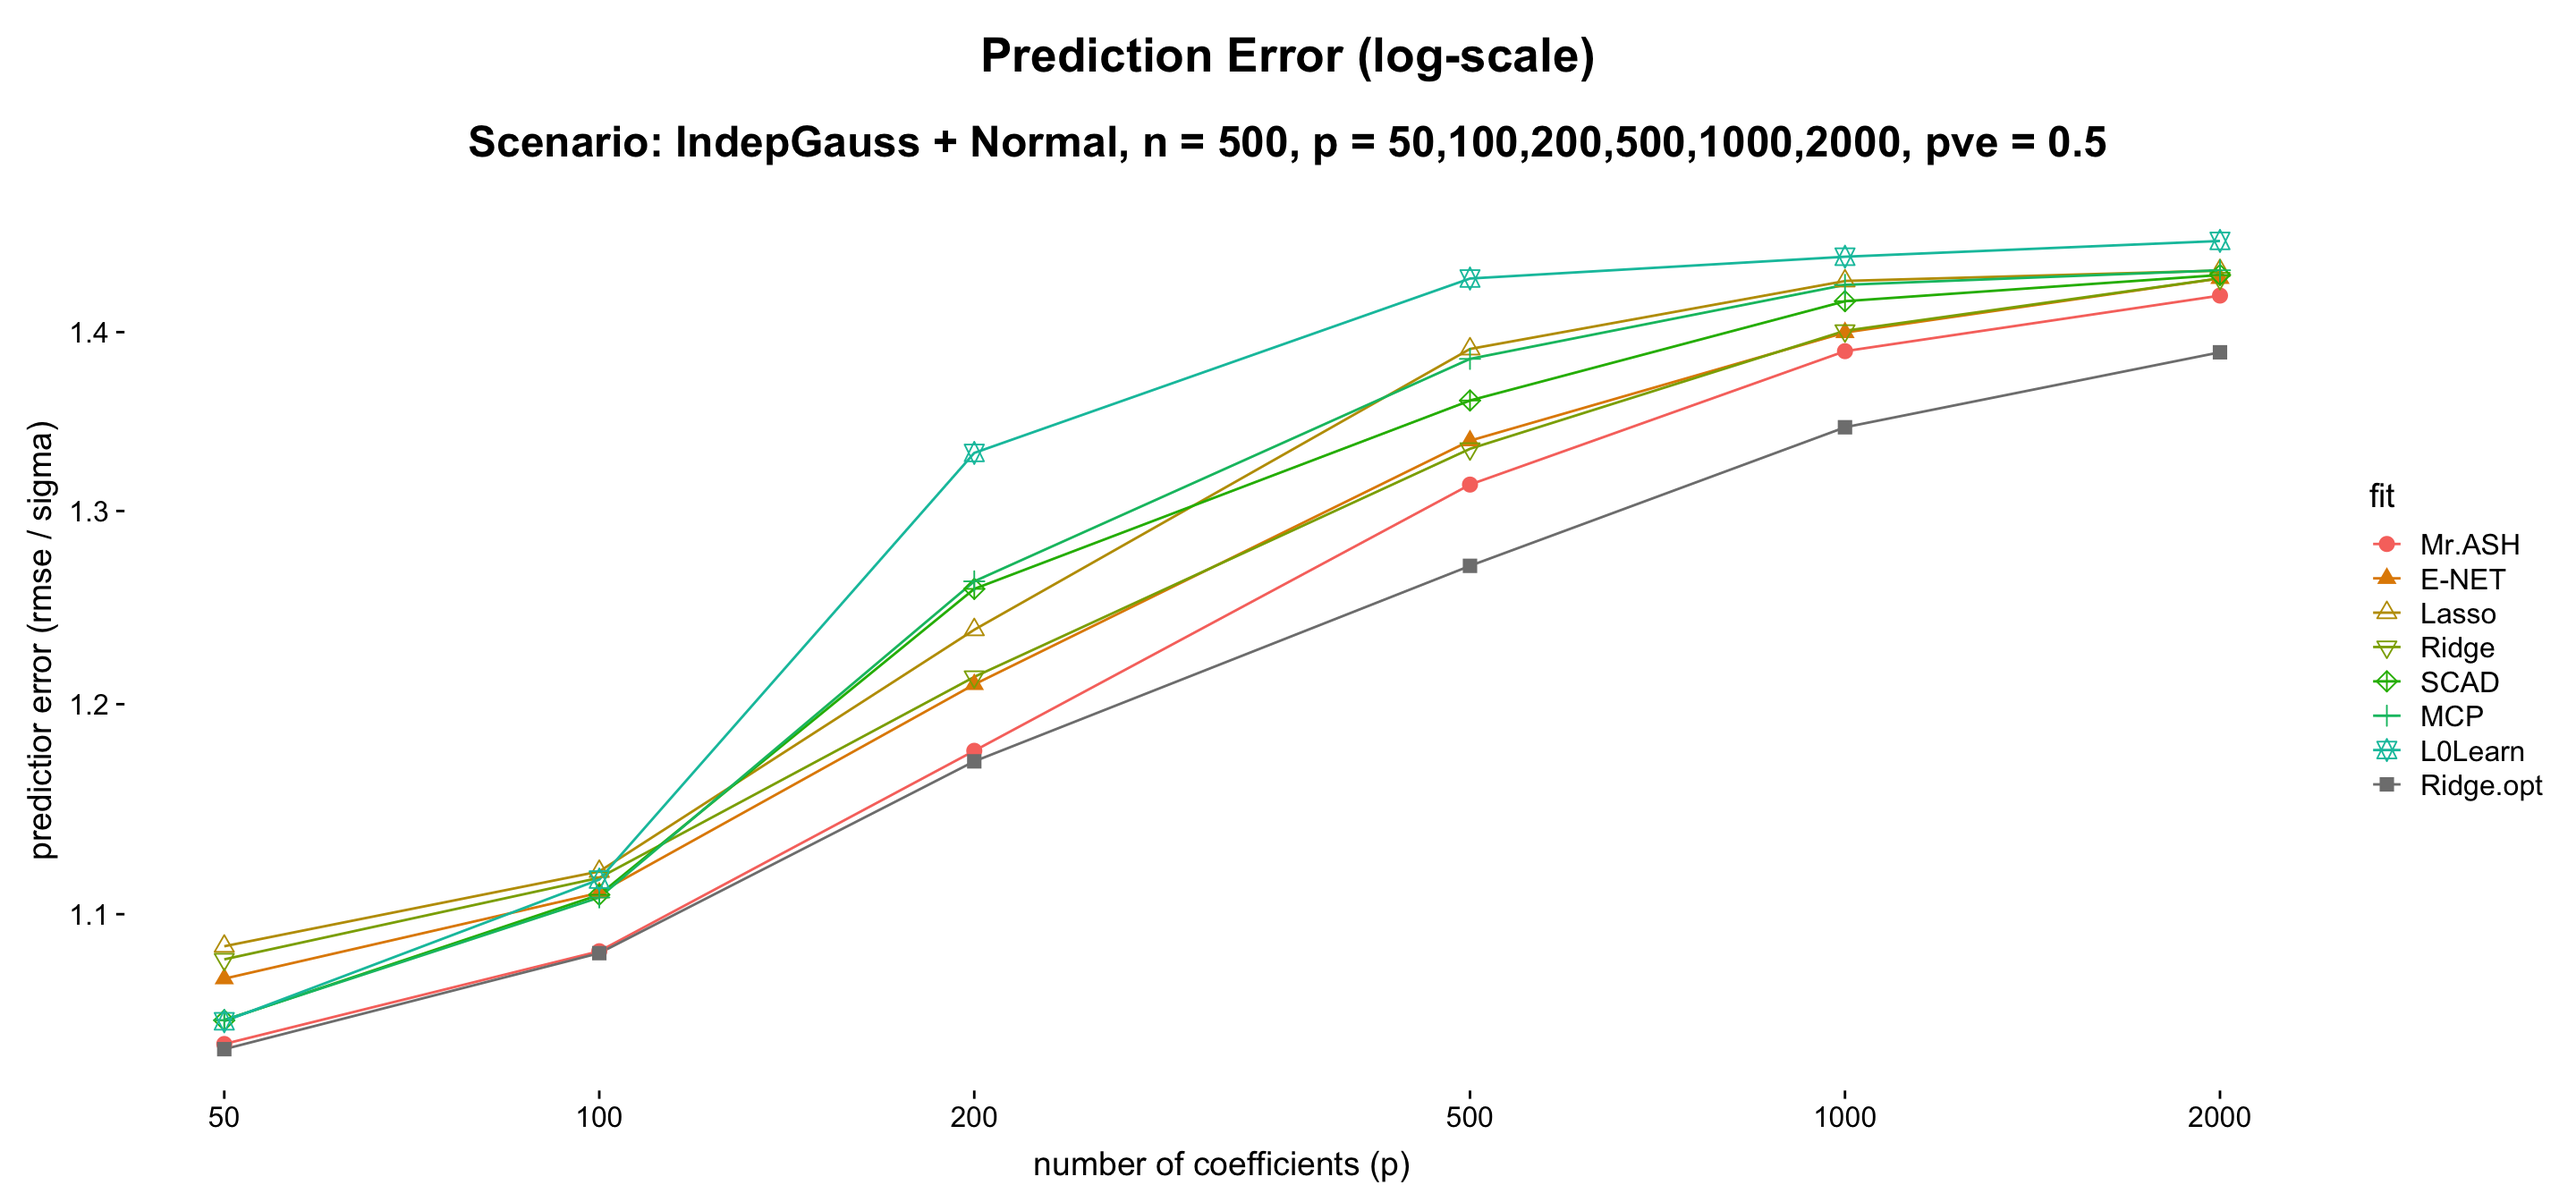
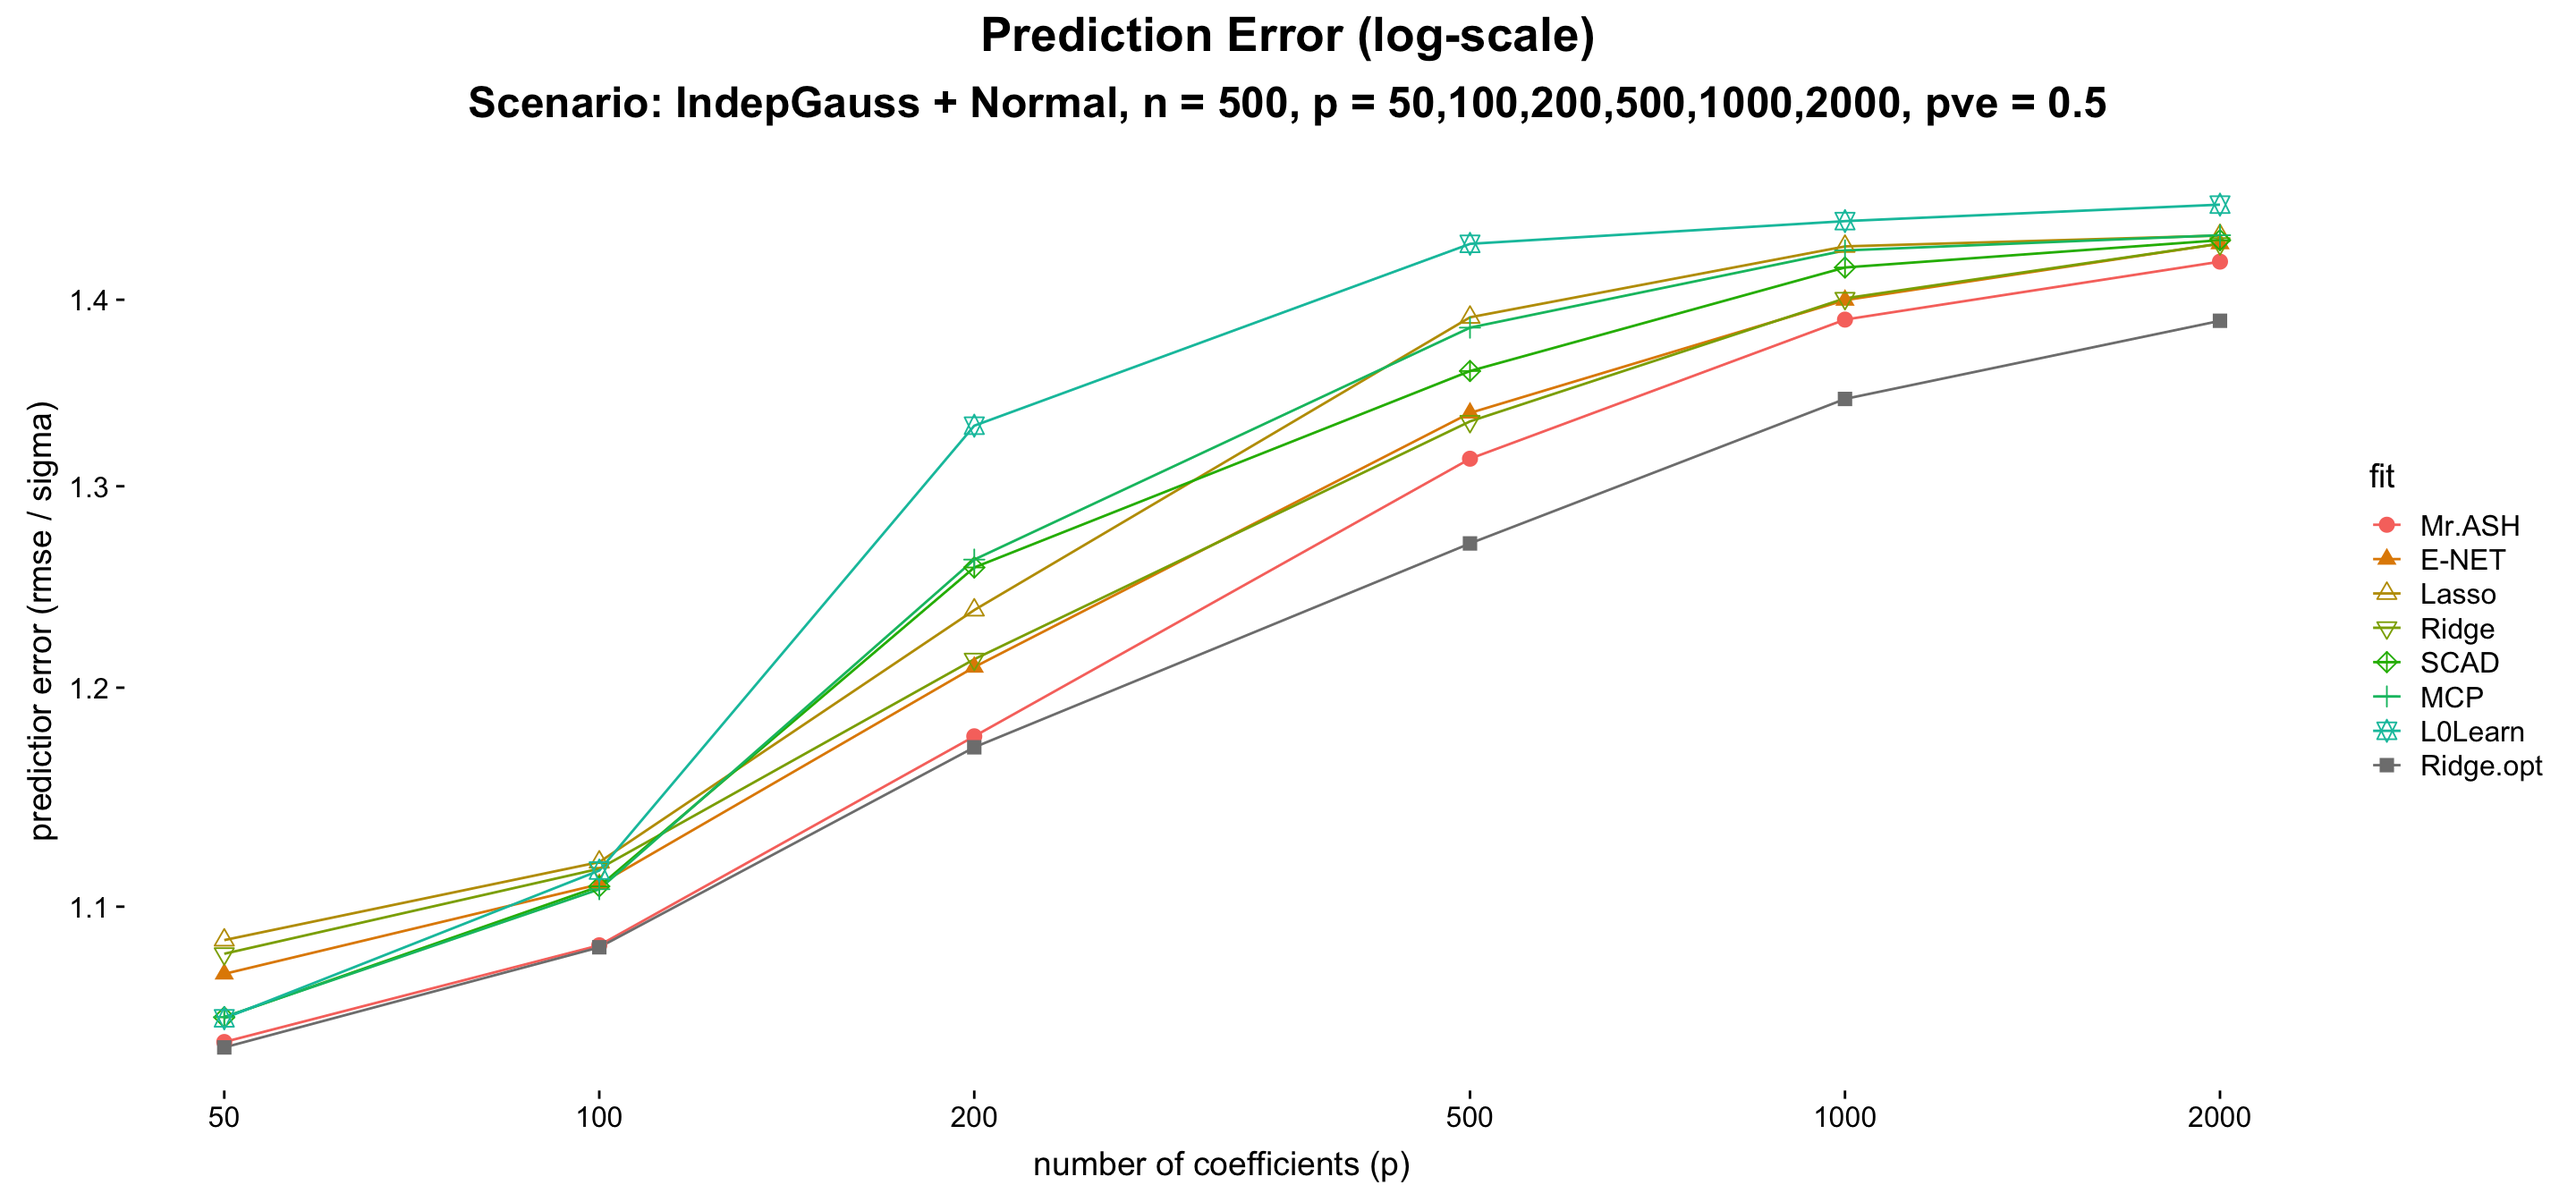
Build site.

diff --git a/docs/Plots_for_paper.html b/docs/Plots_for_paper.html
@@ -527,10 +527,10 @@ This reproducible <a href="http://rmarkdown.rstudio.com">R Markdown</a> analysis
 <div class="panel panel-default">
 <div class="panel-heading">
 <p class="panel-title">
-<a data-toggle="collapse" data-parent="#workflowr-checks" href="#strongRepositoryversionstrongahrefhttpsgithubcomstephenslabmrashworkflowtree6e3d84937a8ec5ed7324115b7e1929ee2daac120targetblank6e3d849a"> <span class="glyphicon glyphicon-ok text-success" aria-hidden="true"></span> <strong>Repository version:</strong> <a href="https://github.com/stephenslab/mr-ash-workflow/tree/6e3d84937a8ec5ed7324115b7e1929ee2daac120" target="_blank">6e3d849</a> </a>
+<a data-toggle="collapse" data-parent="#workflowr-checks" href="#strongRepositoryversionstrongahrefhttpsgithubcomstephenslabmrashworkflowtree9352593229da3a938de387ee5803451830be5815targetblank9352593a"> <span class="glyphicon glyphicon-ok text-success" aria-hidden="true"></span> <strong>Repository version:</strong> <a href="https://github.com/stephenslab/mr-ash-workflow/tree/9352593229da3a938de387ee5803451830be5815" target="_blank">9352593</a> </a>
 </p>
 </div>
[2 lines of base64/hex data omitted]
 <div class="panel-body">
 <p>
 Great! You are using Git for version control. Tracking code development and connecting the code version to the results is critical for reproducibility. The version displayed above was the version of the Git repository at the time these results were generated. <br><br> Note that you need to be careful to ensure that all relevant files for the analysis have been committed to Git prior to generating the results (you can use <code>wflow_publish</code> or <code>wflow_git_commit</code>). workflowr only checks the R Markdown file, but you know if there are other scripts or data files that it depends on. Below is the status of the Git repository when the results were generated:
@@ -543,6 +543,7 @@ Ignored files:
     Ignored:    ETA_1_parBayesB.dat
     Ignored:    analysis/ETA_1_lambda.dat
     Ignored:    analysis/ETA_1_parBayesB.dat
+    Ignored:    analysis/figure/
     Ignored:    analysis/mu.dat
     Ignored:    analysis/varE.dat
     Ignored:    mu.dat
@@ -554,8 +555,7 @@ Untracked files:
     Untracked:  docs/figure/.DS_Store
 
 Unstaged changes:
-    Modified:   analysis/Result1_Ridge.Rmd
-    Modified:   code/sim_wrapper.R
+    Modified:   analysis/Result2_Nonconvex.Rmd
 
 </code></pre>
 <p>
@@ -594,6 +594,40 @@ Message
 </tr>
 </thead>
 <tbody>
+<tr>
+<td>
+Rmd
+</td>
+<td>
+<a href="https://github.com/stephenslab/mr-ash-workflow/blob/9352593229da3a938de387ee5803451830be5815/analysis/Plots_for_paper.Rmd" target="_blank">9352593</a>
+</td>
+<td>
+Youngseok Kim
+</td>
+<td>
+2019-10-31
+</td>
+<td>
+wflow_publish(“analysis/Plots_for_paper.Rmd”)
+</td>
+</tr>
+<tr>
+<td>
+html
+</td>
+<td>
+<a href="https://rawcdn.githack.com/stephenslab/mr-ash-workflow/d901e446f6a9d32037dd951c3a340dac1de7799c/docs/Plots_for_paper.html" target="_blank">d901e44</a>
+</td>
+<td>
+Youngseok Kim
+</td>
+<td>
+2019-10-31
+</td>
+<td>
+Build site.
+</td>
+</tr>
 <tr>
 <td>
 Rmd
@@ -993,6 +1027,17 @@ Date
 <tbody>
 <tr>
 <td>
+<a href="https://github.com/stephenslab/mr-ash-workflow/blob/d901e446f6a9d32037dd951c3a340dac1de7799c/docs/figure/Plots_for_paper.Rmd/fig1-1.png" target="_blank">d901e44</a>
+</td>
+<td>
+Youngseok Kim
+</td>
+<td>
+2019-10-31
+</td>
+</tr>
+<tr>
+<td>
 <a href="https://github.com/stephenslab/mr-ash-workflow/blob/66726909d9d89ed7935e64082a60c8773ad03cab/docs/figure/Plots_for_paper.Rmd/fig1-1.png" target="_blank">6672690</a>
 </td>
 <td>
@@ -1184,7 +1229,7 @@ p1 = ggplot(sdat1) + geom_line(aes(x = p, y = pred, color = fit)) +
 fig_main  = p1
 title     = ggdraw() + draw_label(&quot;Prediction Error (log-scale)&quot;, fontface = &#39;bold&#39;, size = 20) 
 subtitle  = ggdraw() + draw_label(&quot;Scenario: IndepGauss + Normal, n = 500, p = 50,100,200,500,1000,2000, pve = 0.5&quot;, fontface  = &#39;bold&#39;, size = 18) 
-fig       = plot_grid(title,subtitle,fig_main, ncol = 1, rel_heights = c(0.1,0.06,0.95))
+fig       = plot_grid(title,subtitle,fig_main, ncol = 1, rel_heights = c(0.06,0.06,0.95))
 fig</code></pre>
 <p><img src="figure/Plots_for_paper.Rmd/fig3-1.png" width="1440" style="display: block; margin: auto;" /></p>
 <p>
@@ -1224,6 +1269,71 @@ Youngseok Kim
 </table>
 </div>
 </div>
+<pre class="r"><code>res_df       = readRDS(&quot;results/signalshape_pve0.99.RDS&quot;)
+method_list  = c(&quot;Mr.ASH&quot;,&quot;VarBVS&quot;,&quot;BayesB&quot;,&quot;Blasso&quot;,&quot;SuSiE&quot;,&quot;E-NET&quot;,&quot;Lasso&quot;,&quot;Ridge&quot;,&quot;SCAD&quot;,&quot;MCP&quot;,&quot;L0Learn&quot;)
+method_level = c(&quot;Mr.ASH&quot;,&quot;E-NET&quot;,&quot;Lasso&quot;,&quot;Ridge&quot;,
+                 &quot;SCAD&quot;,&quot;MCP&quot;,&quot;L0Learn&quot;,
+                 &quot;VarBVS&quot;,&quot;BayesB&quot;,&quot;Blasso&quot;,&quot;SuSiE&quot;)
+col          = gg_color_hue(13)[1:11]
+for (i in 1:6) {
+res_df[[i]]$fit   = rep(method_list, each = 20)
+res_df[[i]]$fit   = factor(res_df[[i]]$fit, levels =  c(&quot;Mr.ASH&quot;,&quot;E-NET&quot;,&quot;Lasso&quot;,&quot;Ridge&quot;,
+                                            &quot;SCAD&quot;,&quot;MCP&quot;,&quot;L0Learn&quot;,
+                                            &quot;VarBVS&quot;,&quot;BayesB&quot;,&quot;Blasso&quot;,&quot;SuSiE&quot;))
+some              = c(1,2,3,5,6,7)
+res_df[[i]] = res_df[[i]][res_df[[i]]$fit %in% method_level[some],]
+}
+pp = list()
+signal_name = c(&quot;SparseLaplace&quot;,&quot;SparseT2&quot;,&quot;SparseT5&quot;,&quot;SparseNormal&quot;,&quot;SparseUnif&quot;,&quot;SparseConst&quot;)
+for (i in 1:6) {
+  d       = res_df[[i]]
+  pp[[i]] = my.box2(d, &quot;fit&quot;, &quot;pred&quot;, cols = col[some], shapes = 1:6) +
+  theme(axis.line    = element_blank(),
+        axis.text.x  = element_text(angle = 45,hjust = 1),
+        legend.position = &quot;none&quot;) +
+  geom_hline(yintercept = mean(d$pred[d$fit == &quot;Mr.ASH&quot;]), col = col[1],
+             linetype = &quot;dotted&quot;, size = 1.5) +
+  scale_y_continuous(trans = &quot;log10&quot;, breaks = c(1,1.2,1.4,1.6,1.8,2.0)) +
+  coord_cartesian(ylim = c(0.95,1.8))
+  subtitle  = ggdraw() + draw_label(paste(paste(&quot;Signal: &quot;,signal_name[i], sep = &quot;&quot;),&quot;&quot;, sep = &quot;&quot;),
+                                    fontface  = &#39;bold&#39;, size = 18)
+  pp[[i]]   = plot_grid(subtitle, pp[[i]], ncol = 1, rel_heights = c(0.06,0.95))
+}
+fig_main  = plot_grid(pp[[2]],pp[[3]],pp[[1]],pp[[4]],pp[[5]],pp[[6]], nrow = 2, rel_widths = c(0.3,0.3,0.3,0.3))
+title     = ggdraw() + draw_label(&quot;Prediction Error (log-scale)&quot;, fontface = &#39;bold&#39;, size = 20) 
+subtitle  = ggdraw() + draw_label(&quot;Scenario: LowdimIndepGauss, n = 500, p = 2000, s = 20, pve = 0.99&quot;, fontface = &#39;bold&#39;, size = 18)
+fig       = plot_grid(title,subtitle,fig_main, ncol = 1, rel_heights = c(0.03,0.04,0.95))
+fig</code></pre>
+<p><img src="figure/Plots_for_paper.Rmd/fig4-1.png" width="1440" style="display: block; margin: auto;" /></p>
+<pre class="r"><code>res_df       = readRDS(&quot;results/sparsesignal.RDS&quot;)
+sdat         = data.frame()
+s_list       = c(1,5,20,100,500,2000)
+col          = gg_color_hue(13)[1:11]
+shape        = c(19,17,24,25,9,3,11,4,5,7,8)
+for (i in 1:6) {
+  sdat = rbind(sdat, data.frame(pred = colMeans(matrix(res_df[[i]]$pred, 20, 11)),
+                                time = colMeans(matrix(res_df[[i]]$time, 20, 11)),
+                                fit  = method_list,
+                                s    = s_list[i]))
+}
+sdat$fit = factor(sdat$fit, levels = method_level)
+
+p2 = ggplot(sdat) + geom_line(aes(x = s, y = time, color = fit)) +
+  geom_point(aes(x = s, y = time, color = fit, shape = fit), size = 2.5) +
+  scale_x_continuous(breaks = s_list, trans = &quot;log10&quot;) +
+  theme_cowplot(font_size = 14) +
+  labs(y = &quot;computation time (sec)&quot;, x = &quot;number of nonzero coefficients (s)&quot;) +
+  theme(axis.line = element_blank(),
+        plot.title = element_text(hjust = 0.5)) +
+  scale_color_manual(values = col) +
+  scale_shape_manual(values = shape) +
+  scale_y_continuous(trans = &quot;log10&quot;)
+title     = ggdraw() + draw_label(&quot;Computation Time (log-scale)&quot;, fontface = &#39;bold&#39;, size = 20) 
+subtitle  = ggdraw() + draw_label(&quot;Scenario: IndepGauss + SparseNormal, n = 500, p = 2000, s = 1,5,20,100,500,2000, pve = 0.5&quot;, fontface  = &#39;bold&#39;, size = 18) 
+fig_main  = p2
+fig       = plot_grid(title,subtitle,fig_main, ncol = 1, rel_heights = c(0.1,0.06,0.95))
+fig</code></pre>
+<p><img src="figure/Plots_for_paper.Rmd/unnamed-chunk-3-1.png" width="1440" style="display: block; margin: auto;" /></p>
 <br>
 <p>
 <button type="button" class="btn btn-default btn-workflowr btn-workflowr-sessioninfo" data-toggle="collapse" data-target="#workflowr-sessioninfo" style="display: block;">

diff --git a/docs/site_libs/tocify-1.9.1/jquery.tocify.css b/docs/site_libs/tocify-1.9.1/jquery.tocify.css
@@ -11,6 +11,8 @@
     margin-left: 2%;
     position: fixed;
     border: 1px solid #ccc;
+    webkit-border-radius: 6px;
+    moz-border-radius: 6px;
     border-radius: 6px;
 }
 
@@ -43,14 +45,10 @@
 .tocify-subheader .tocify-subheader {
     text-indent: 30px;
 }
+
+/* Further indents third level subheader elements. You can continue this pattern if you have more nested elements. */
 .tocify-subheader .tocify-subheader .tocify-subheader {
     text-indent: 40px;
-}
-.tocify-subheader .tocify-subheader .tocify-subheader .tocify-subheader {
-    text-indent: 50px;
-}
-.tocify-subheader .tocify-subheader .tocify-subheader .tocify-subheader .tocify-subheader {
-    text-indent: 60px;
 }
 
 /* Twitter Bootstrap Override Style */

diff --git a/docs/site_libs/tocify-1.9.1/jquery.tocify.js b/docs/site_libs/tocify-1.9.1/jquery.tocify.js
@@ -386,13 +386,13 @@
 
           item.append($("<a/>", {
 
-            "html": self.html()
+            "text": self.text()
 
           }));
 
         } else {
 
-          item.html(self.html());
+          item.text(self.text());
 
         }
 
